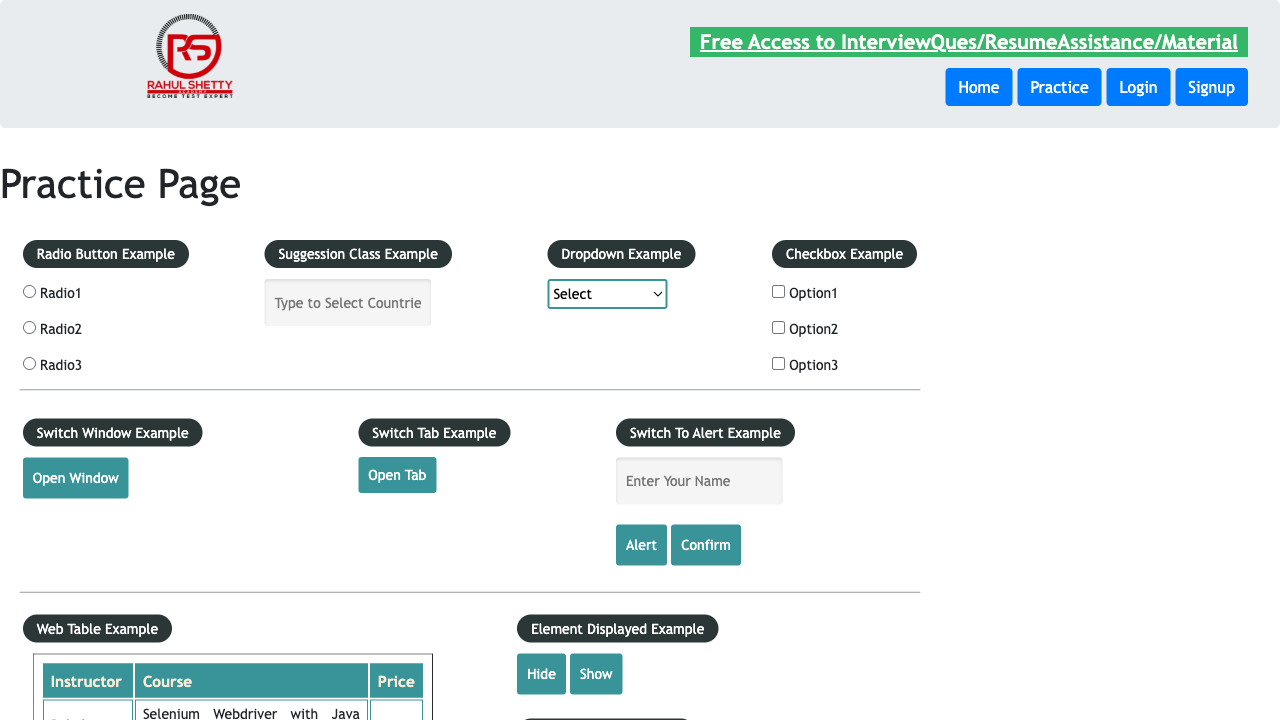
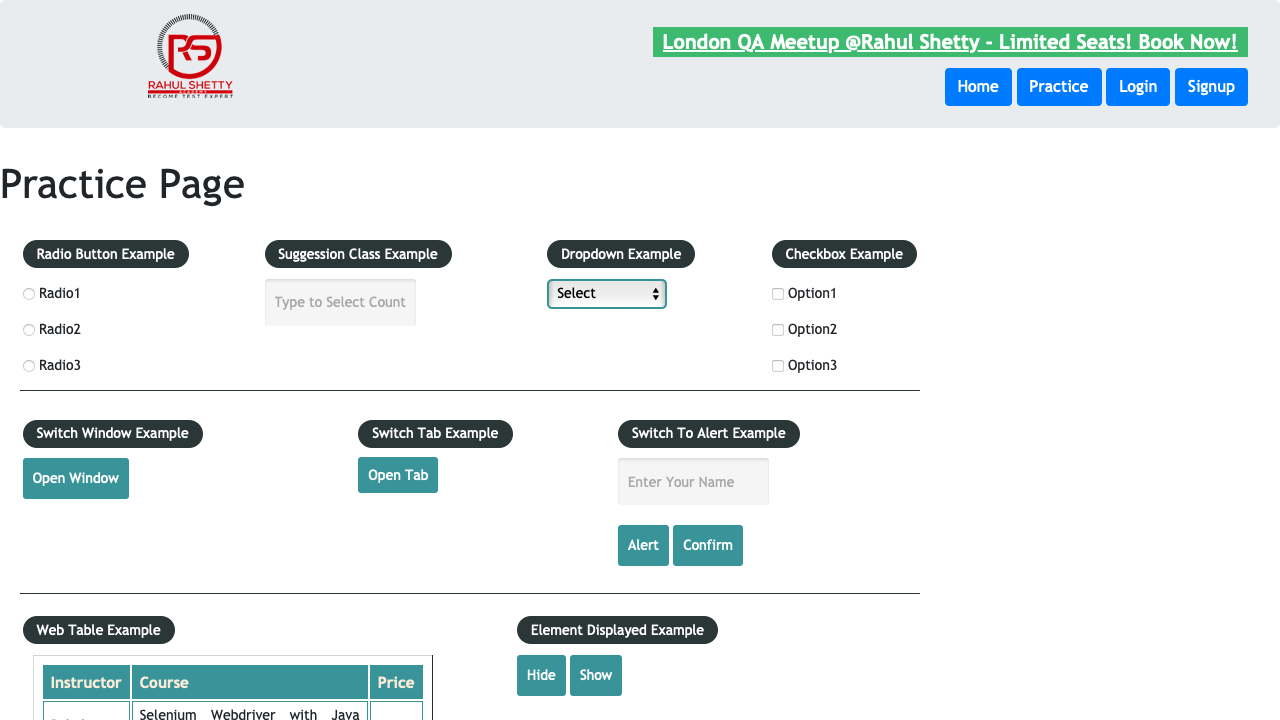
custom configuration file created

diff --git a/tests/section14/ClientApp.spec.js b/tests/section14/ClientApp.spec.js
@@ -55,52 +55,52 @@ for (const data of dataSet) {
     await orderId.getOrderId();
   });
 
-  customTest.only(`Place Order ${data.email}`, async ({ page, testDataForOrder }) => {
-    const poManger = new POManger(page);
+  // customTest(`Place Order ${data.email}`, async ({ page, testDataForOrder }) => {
+  //   const poManger = new POManger(page);
 
-    //   const email = "navindumalith0@gmail.com";
-    //   const password = "Mn20010810@#";
-    //   const ExpProduct = "ADIDAS ORIGINAL";
+  //   //   const email = "navindumalith0@gmail.com";
+  //   //   const password = "Mn20010810@#";
+  //   //   const ExpProduct = "ADIDAS ORIGINAL";
 
-    const loginPage = poManger.getLoginPage();
-    await loginPage.goTo();
-    await loginPage.login(testDataForOrder.email, testDataForOrder.password);
+  //   const loginPage = poManger.getLoginPage();
+  //   await loginPage.goTo();
+  //   await loginPage.login(testDataForOrder.email, testDataForOrder.password);
 
-    //Product add to cart
-    const dashboard = poManger.getDashboard();
-    await dashboard.addProductToCart(testDataForOrder.ExpProduct);
-    await dashboard.goToCheckout();
+  //   //Product add to cart
+  //   const dashboard = poManger.getDashboard();
+  //   await dashboard.addProductToCart(testDataForOrder.ExpProduct);
+  //   await dashboard.goToCheckout();
 
-    //navigate to checkout
-    const checkout = poManger.getCheckout();
-    await checkout.gotochekout();
+  //   //navigate to checkout
+  //   const checkout = poManger.getCheckout();
+  //   await checkout.gotochekout();
 
-    //fill Card Details
+  //   //fill Card Details
 
-    //   const creditCardNumber = "4242 4242 4242 4242";
-    //   const cvv = "123";
-    //   const cardName = "sampath";
-    //   const coupenCode = "rahulshettyacademy";
-    //   const expDate = "31";
-    //   const expMonth = "11";
+  //   //   const creditCardNumber = "4242 4242 4242 4242";
+  //   //   const cvv = "123";
+  //   //   const cardName = "sampath";
+  //   //   const coupenCode = "rahulshettyacademy";
+  //   //   const expDate = "31";
+  //   //   const expMonth = "11";
 
-    const cardDetails = poManger.getCardDetails();
-    await cardDetails.fillCardDetails(
-      testDataForOrder.creditCardNumber,
-      testDataForOrder.cvv,
-      testDataForOrder.cardName,
-      testDataForOrder.couponCode,
-      testDataForOrder.expMonth,
-      testDataForOrder.expDate
-    );
+  //   const cardDetails = poManger.getCardDetails();
+  //   await cardDetails.fillCardDetails(
+  //     testDataForOrder.creditCardNumber,
+  //     testDataForOrder.cvv,
+  //     testDataForOrder.cardName,
+  //     testDataForOrder.couponCode,
+  //     testDataForOrder.expMonth,
+  //     testDataForOrder.expDate
+  //   );
 
-    //fill Shipping Information
-    const shippingInformation = poManger.getShippingInformation();
-    await shippingInformation.fillShippingInformation(" India");
-    await shippingInformation.clickCheckoutButton();
+  //   //fill Shipping Information
+  //   const shippingInformation = poManger.getShippingInformation();
+  //   await shippingInformation.fillShippingInformation(" India");
+  //   await shippingInformation.clickCheckoutButton();
 
-    //getOrderId and search dymancally whther it is in Orders Page
-    const orderId = poManger.getOrderId();
-    await orderId.getOrderId();
-  });
+  //   //getOrderId and search dymancally whther it is in Orders Page
+  //   const orderId = poManger.getOrderId();
+  //   await orderId.getOrderId();
+  // });
 }

diff --git a/playwright.config1.js b/playwright.config1.js
@@ -1,0 +1,37 @@
+// @ts-check
+const { defineConfig, devices } = require('@playwright/test');
+
+/**
+ * @see https://playwright.dev/docs/test-configuration
+ */
+
+const config = defineConfig({
+  testDir: './tests',
+  timeout: 30 * 1000,
+  expect: {
+    timeout: 10 * 1000,
+  },
+  reporter: 'html',
+  projects: [
+    {
+      name: "safari",
+      use: {
+        browserName: 'webkit',
+        headless: false,
+        // trace: 'on',
+        // screenshot: 'on'
+      }
+    },    
+    {
+      name: "Chrome execution",
+      use: {
+        browserName: 'chromium',
+        headless: false,
+        // trace: 'on',
+        // screenshot: 'on'
+      }
+    }
+  ]
+});
+
+module.exports = config;

diff --git a/tests/login.spec.js b/tests/login.spec.js
@@ -77,7 +77,7 @@ test('Assignment 1 Login', async ({browser})=>{
     console.log(await cardTitle.last().textContent());
 }) 
 
-test('UI basics/Select Drop Down', async ({page})=>{
+test.only('UI basics/Select Drop Down', async ({page})=>{
     await page.goto('https://rahulshettyacademy.com/loginpagePractise/');   
 
     const userName = await page.locator('#username');
